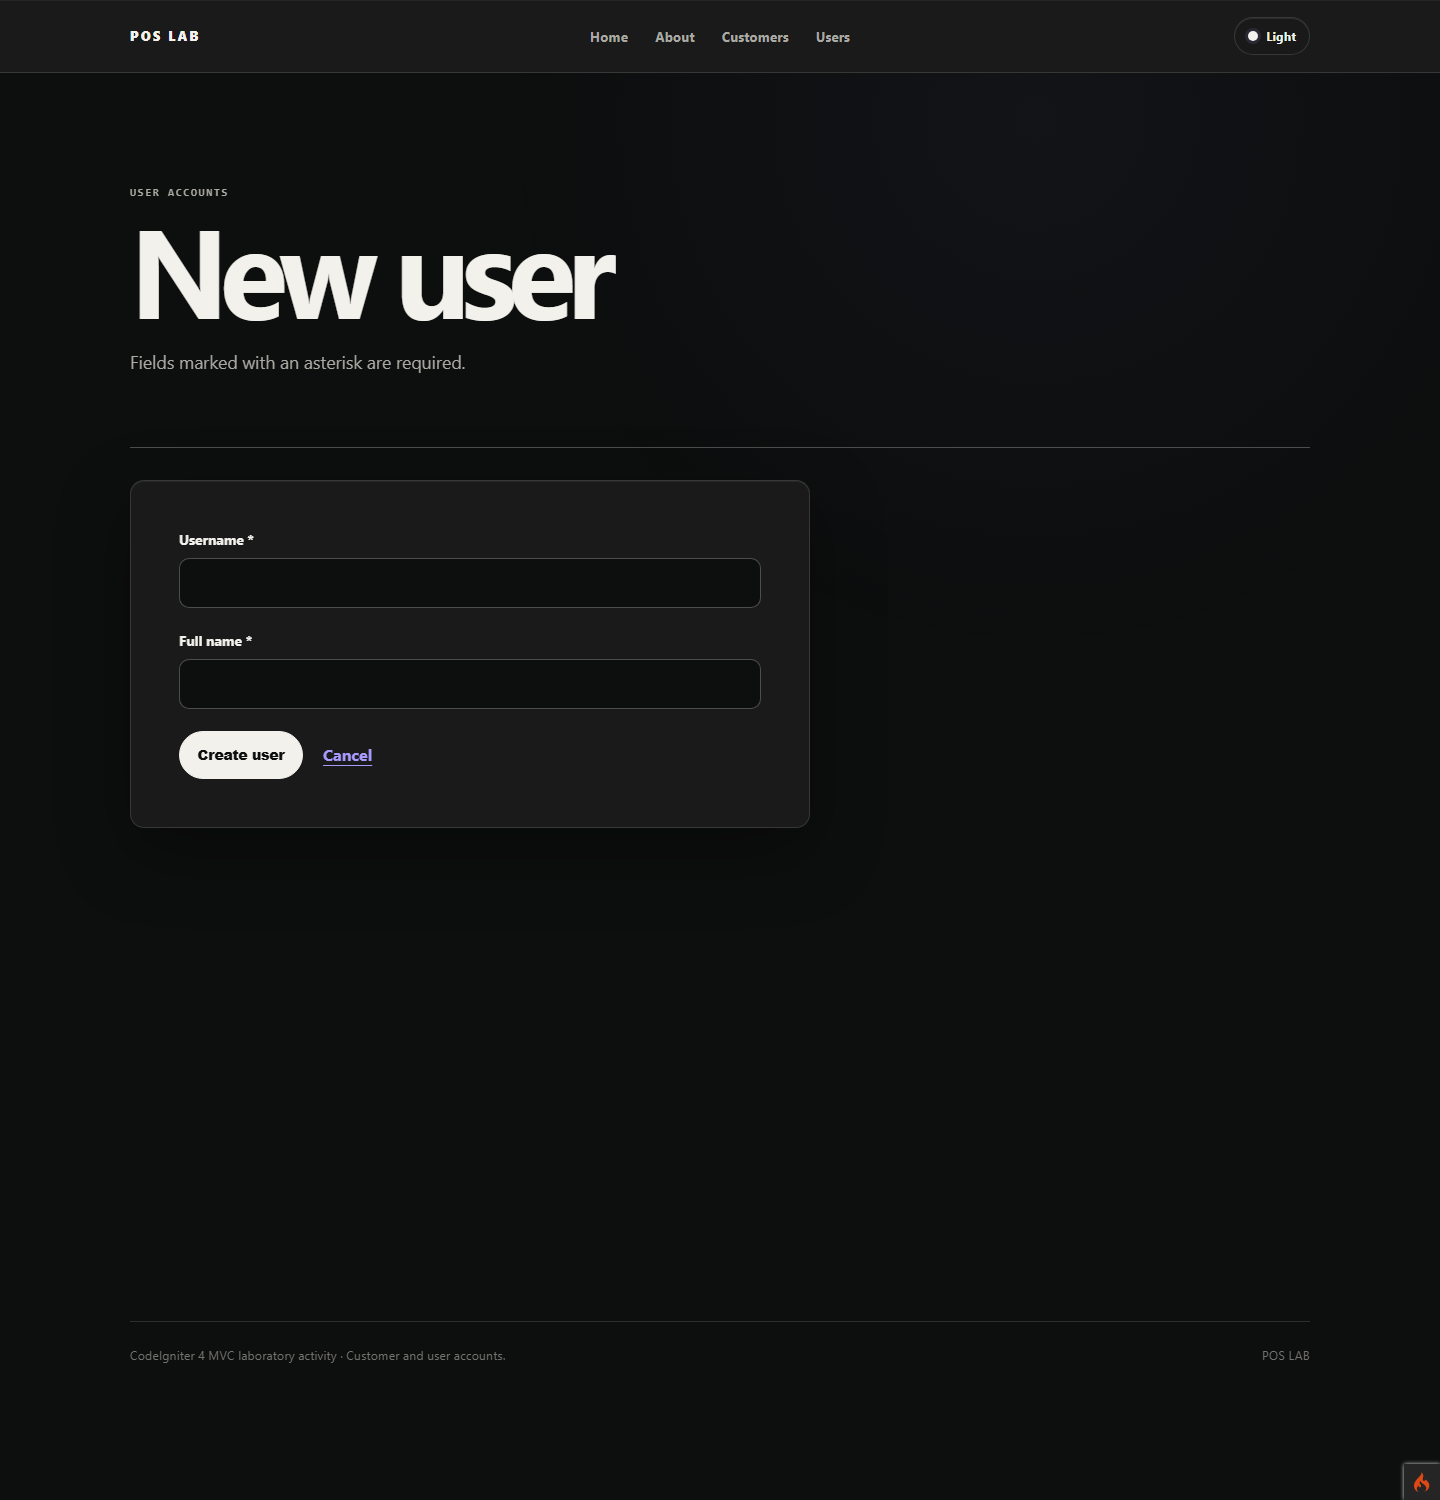
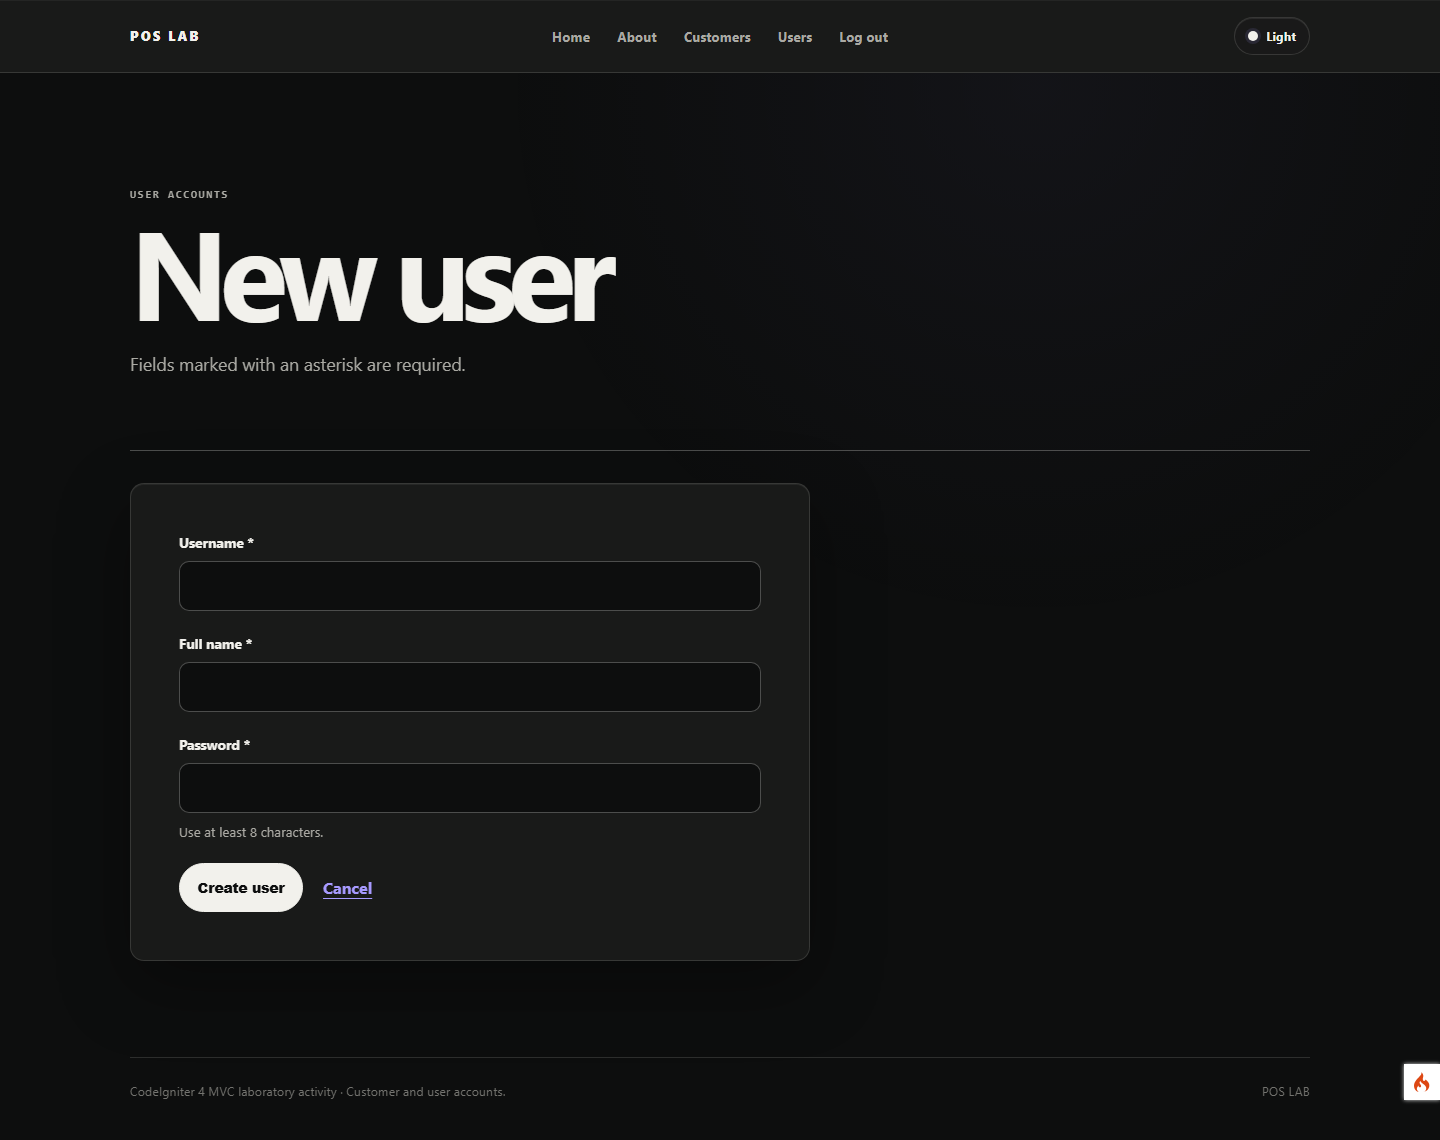
Refresh README screenshots for authenticated TFA4

diff --git a/README.md b/README.md
@@ -6,35 +6,39 @@ This CodeIgniter 4 project continues [TFA3](https://github.com/bonkval/TFA3). It
 
 ### Home (`/`)
 
-![Home page](screenshots/home.png)
+![TFA4 home page](screenshots/home.png)
+
+### Staff login (`/login`)
+
+![Staff login page](screenshots/login.png)
+
+### Customer Accounts (`/customers`)
+
+![Authenticated Customer Accounts listing](screenshots/customers.png)
+
+### New Customer (`/customers/new`)
+
+![Authenticated New Customer form](screenshots/customers-new.png)
+
+### Edit Customer (`/customers/1/edit`)
+
+![Authenticated Edit Customer form](screenshots/customers-edit.png)
+
+### User Accounts (`/users`)
+
+![Authenticated User Accounts listing](screenshots/users.png)
+
+### New User (`/users/new`)
+
+![Authenticated New User form with password field](screenshots/users-new.png)
+
+### Edit User (`/users/1/edit`)
+
+![Authenticated Edit User form and profile picture upload](screenshots/users-edit.png)
 
 ### About (`/about`)
 
 ![About page](screenshots/about.png)
-
-### Customer Accounts (`/customers`)
-
-![Customer Accounts listing](screenshots/customers.png)
-
-### New Customer (`/customers/new`)
-
-![New Customer form](screenshots/customers-new.png)
-
-### Edit Customer (`/customers/1/edit`)
-
-![Edit Customer form](screenshots/customers-edit.png)
-
-### User Accounts (`/users`)
-
-![User Accounts listing](screenshots/users.png)
-
-### New User (`/users/new`)
-
-![New User form](screenshots/users-new.png)
-
-### Edit User (`/users/1/edit`)
-
-![Edit User form and profile picture upload](screenshots/users-edit.png)
 
 ## Local setup
 
